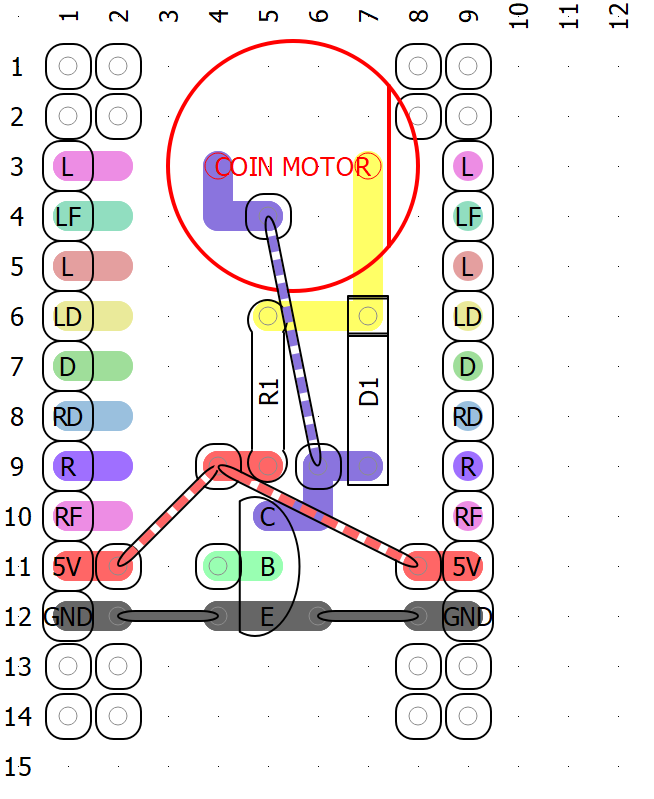
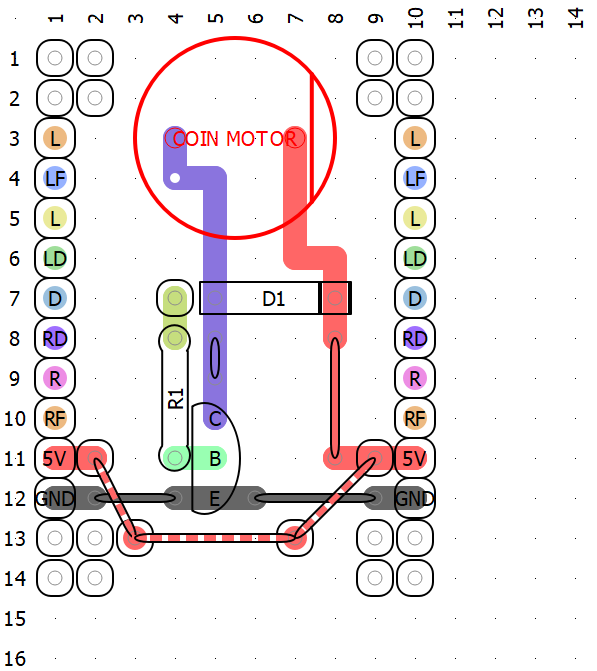
finalize headgear design

Changed region(s): [[0.0, 0.0, 0.995, 1.0]]

diff --git a/logs/README.md b/logs/README.md
@@ -141,9 +141,10 @@
 |     15     |      9      |      3       |
 |     11     |      5      |      4       |
 |     12     |      6      |      5       |
-|     13     |      8      |      6       |
+|     13     |      7      |      6       |
 |     14     |      8      |      7       |
 |     16     |     10      |  RF Receive  |
+|     5      |      3      | Exposed PWM  |
 
 - `Fri Feb 13 2026 18:12:26` : Draft head base
 
@@ -163,9 +164,15 @@
 
 - `Sat Feb 14 2026 00:18:49` : Example of the wiring for a specific motor, in this example: `LD` :
 
-![Temp](https://github.com/user-attachments/assets/dad074b0-94a2-4351-81de-b7b674843286)
+![16B png](./attachments/16B.png)
 
-Just make the base and solder to the specific direction 
+Just make the base and solder to the specific direction
+
+- `Sat Feb 14 2026 01:01:21` : Fix circuit issues and add debug and programming to base
+- `Sat Feb 14 2026 01:16:29` : On The base, expose digital pin 3 for debugging
+- `Sat Feb 14 2026 02:00:36` : Settle on LiPo 3.3v 3000mAh
+- `Sat Feb 14 2026 02:24:19` : I need a 100uf or 1000uf on the charger circuit to stabilize the power for the ATMega
+
 # Format
 
 The time format is `GMT + 0600 (BST)`,\
